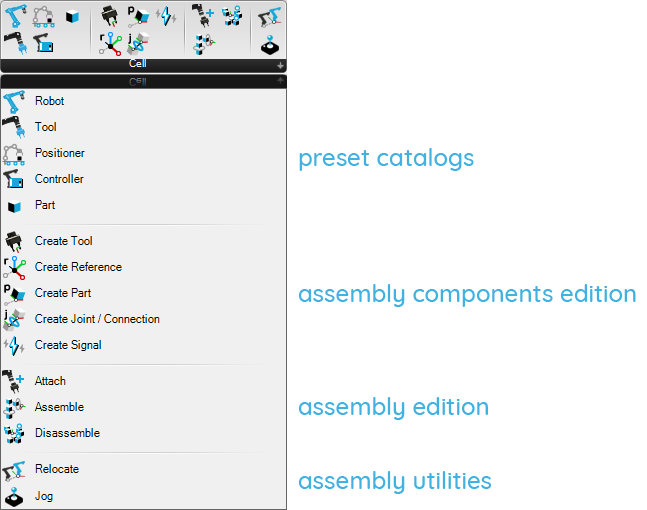
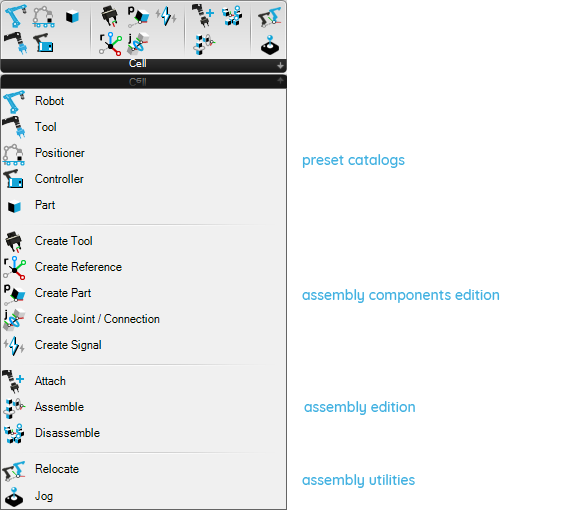
font rescale

diff --git a/docs/Grasshopper/1-Getting-Started/Contents.md b/docs/Grasshopper/1-Getting-Started/Contents.md
@@ -116,12 +116,12 @@ Within the **HAL Robotics** tab, you will see a set of panels. These are ordered
 
 a.  **Cell** - The Cell panel covers everything you'll need to build up a virtual version of your robotic [Cell](../../Overview/Glossary.md#cell). This includes [Robot](../../Overview/Glossary.md#manipulator), [Positioner](../../Overview/Glossary.md#positioner) and [Tool](../../Overview/Glossary.md#end-effector) presets, as well as the components required to build your own [Mechanisms](../../Overview/Glossary.md#mechanism), [Parts](../../Overview/Glossary.md#part), set up your [I/O Signals](../../Overview/Glossary.md#signal) and assemble all of these into a complete digital system through a [Controller](../../Overview/Glossary.md#controller).
 
-[<center><img height="20%" src="../../assets/images/12CellComponents.PNG"></center>](../../assets/images/12CellComponents.PNG)
+[<center><img height="" src="../../assets/images/12CellComponents.PNG"></center>](../../assets/images/12CellComponents.PNG)
 <em>The "Cell" panel contains everything to model the hardware of a robot cell.</em> 
 
 b.  **Motion** - The Motion panel contains all the components to create and manipulate [Targets](../../Overview/Glossary.md#target) and control how your [Robots](../../Overview/Glossary.md#manipulator) are going to move towards those [Targets](../../Overview/Glossary.md#target) by specifying the Speed, Acceleration, [Blend](../../Overview/Glossary.md#blend) and Kinematic Settings.
 
-[<center><img height="20%" src="../../assets/images/12MotionComponents.PNG"></center>](../../assets/images/12MotionComponents.PNG)
+[<center><img src="../../assets/images/12MotionComponents.PNG"></center>](../../assets/images/12MotionComponents.PNG)
 <em>The "Motion" panel contains everything to fine tune a robot motion.</em> 
 
 c.  **Procedure** - The Procedure panel is where you'll find all the tools necessary to program your machines. This includes [Move](../../Overview/Glossary.md#motion-action), [Wait](../../Overview/Glossary.md#wait-action) and [Signal Change](../../Overview/Glossary.md#signal-action) [Actions](../../Overview/Glossary.md#action) as well as utilities for changing [Tools](../../Overview/Glossary.md#end-effector) at runtime, manipulating [Parts](../../Overview/Glossary.md#part) and Combining these into a [Procedure](../../Overview/Glossary.md#procedure) ready to [Simulate](../../Overview/Glossary.md#73-simulation).
